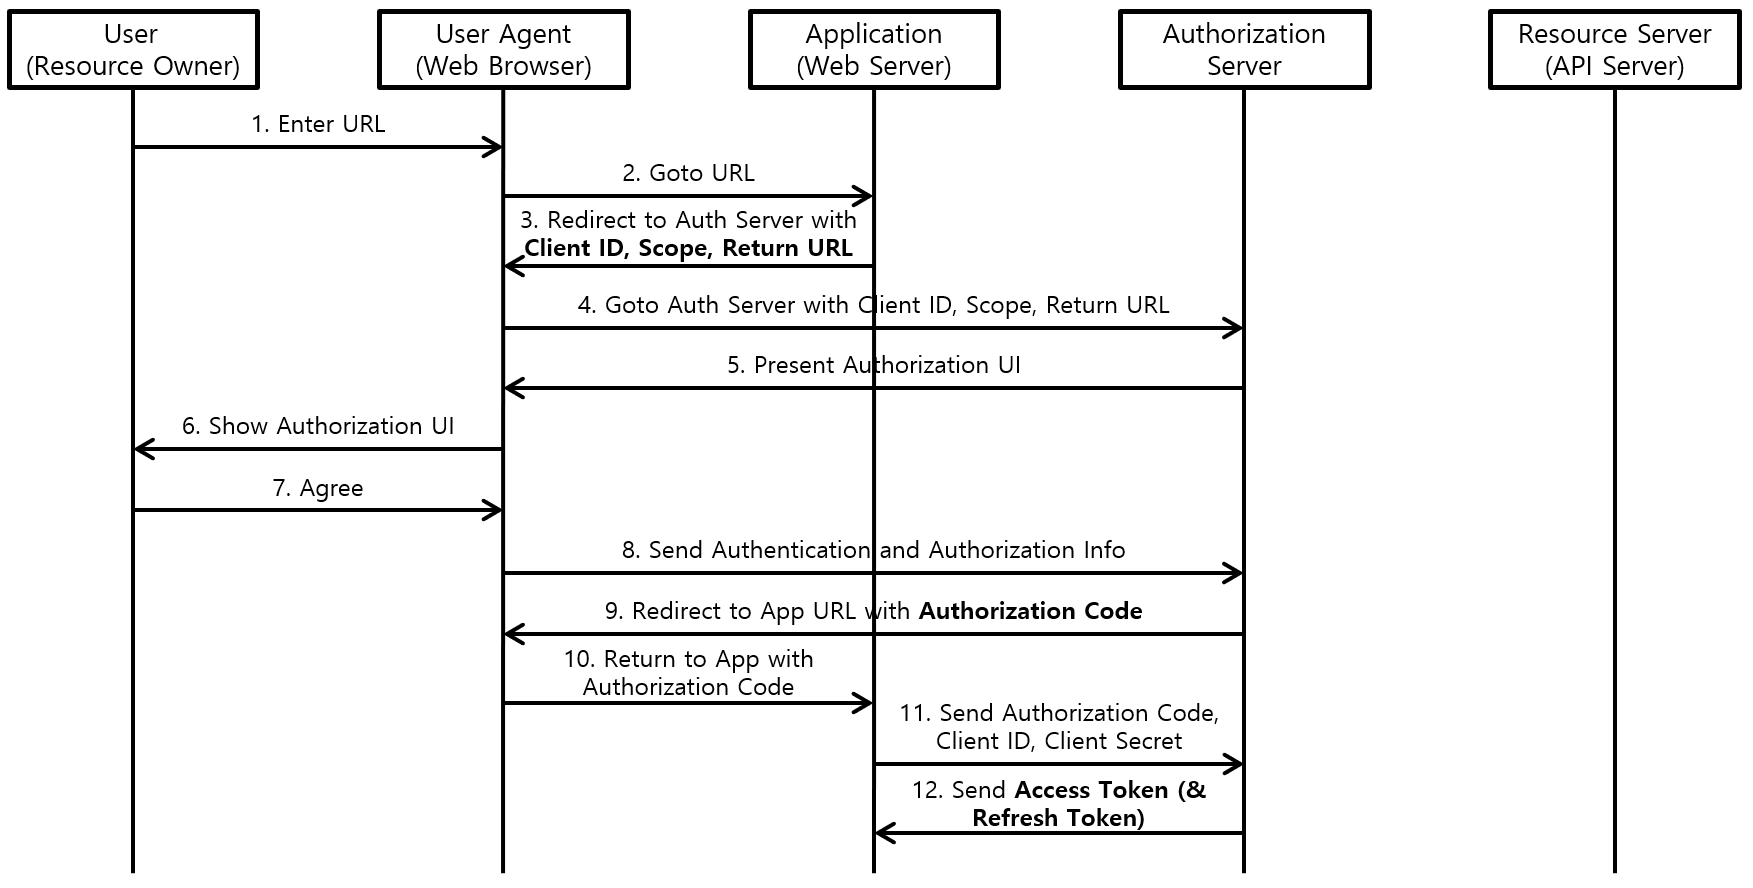
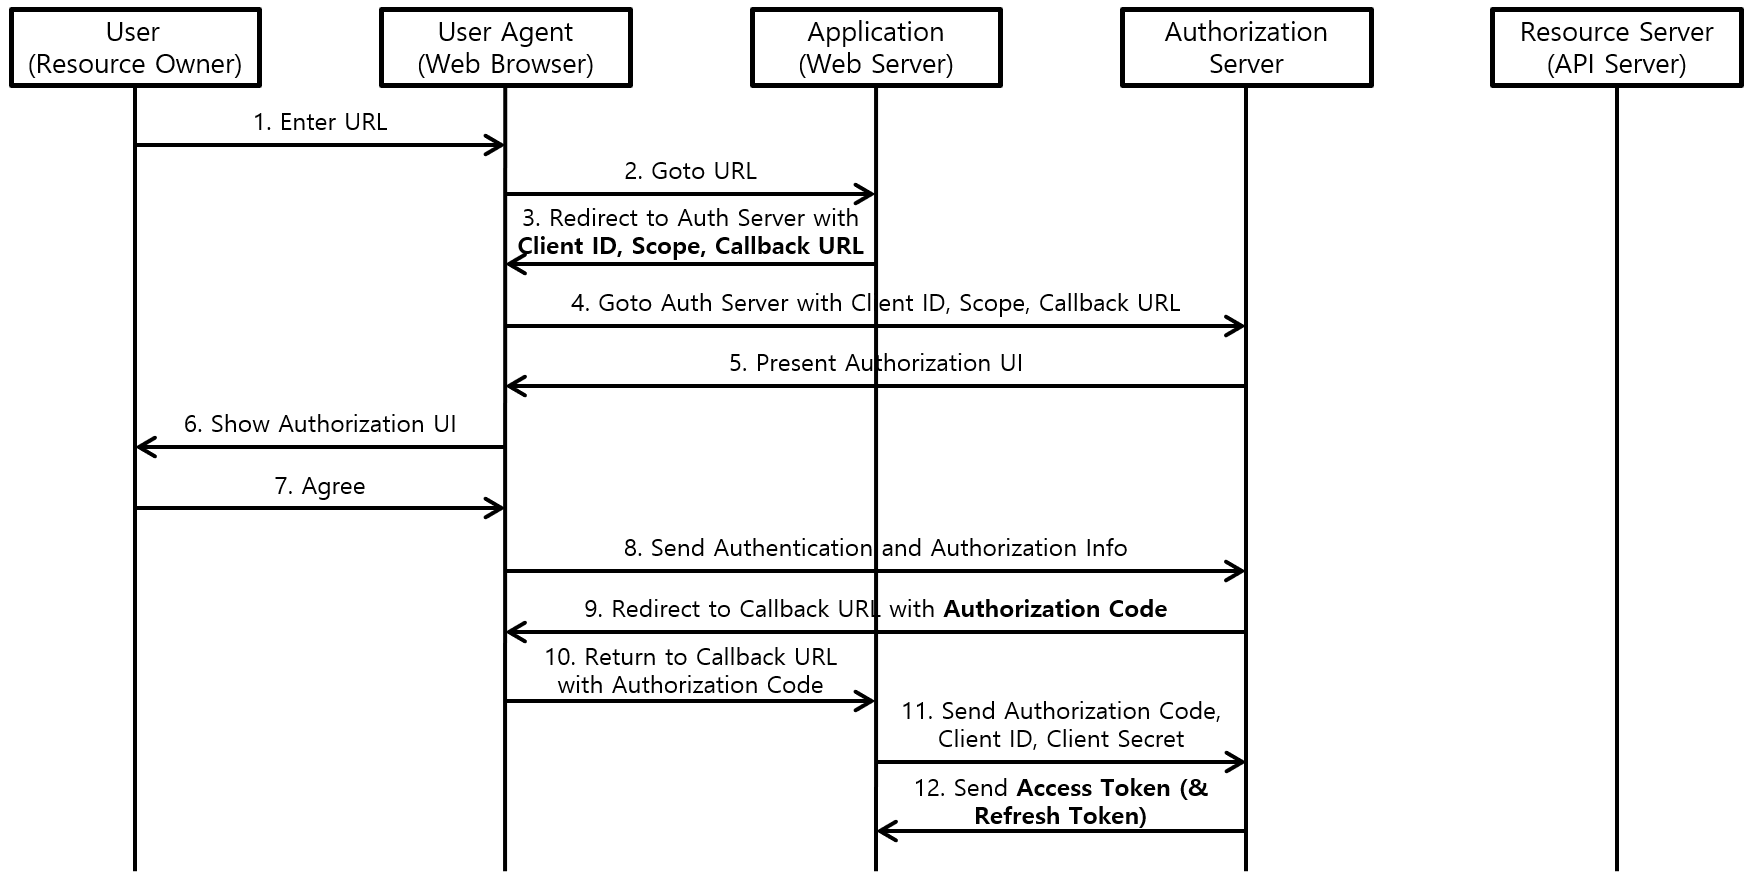
Update

diff --git a/_docs/programming/Golang_Google_OIDC_이용.md b/_docs/programming/Golang_Google_OIDC_이용.md
@@ -42,7 +42,7 @@ func main() {
 		ClientID:     clientID,
 		ClientSecret: clientSecret,
 		Endpoint:     oidcProvider.Endpoint(),
-		RedirectURL:  "http://127.0.0.1:3000/auth/google/callback",   // Set redirect url
+		RedirectURL:  "http://127.0.0.1:3000/auth/google/callback",   // Set callback URL
 		Scopes:       []string{oidc.ScopeOpenID, "profile", "email"}, // Set scope
 	}
 
@@ -156,16 +156,29 @@ func main() {
 * Line 26, 78 : Nonce는 ID Token이 유효한지 검증하는 용도로 이용되는 문자열이다. Nonce가 포함되도록 ID Token을 생성 및 Cookie에 저장하며, Redirect 이후에 얻은 ID Token의 Nonce와 Cookie의 Nonce가 일치하는지 확인한다.
 * Line 52 : Authorization Code는 URL의 "code" Query에 존재한다.
 
-### 3. ID Token, Access Token
+### 3. Google 인증/인가
+
+![[그림 3] Google 인증]({{site.baseurl}}/images/programming/Golang_Google_OIDC/Google_인증.PNG){: width="500px"}
 
 {% highlight text %}
-http://127.0.0.1:3000/auth/google/callback?state=HeLK6b0uTARRKUaX4fLqsw&code=4%2F0AX4XfWj1XzuCgumNoRlYBfzzeCSBzszRvXMlt1uYohiQDOYJ61NrFKIgDmuuOrM5m6JDKw&scope=email+profile+openid+https%3A%2F%2Fwww.googleapis.com%2Fauth%2Fuserinfo.profile+https%3A%2F%2Fwww.googleapis.com%2Fauth%2Fuserinfo.email&authuser=0&prompt=none
+https://accounts.google.com/o/oauth2/v2/auth/identifier?client_id=554362356429-cu4gcpn45gb3incmm2v32sofslliffg2.apps.googleusercontent.com&nonce=fpeNwK3Ky2GnFdIV3Jtltw&redirect_uri=http%3A%2F%2F127.0.0.1%3A3000%2Fauth%2Fgoogle%2Fcallback&response_type=code&scope=openid%20profile%20email&state=jw9XMDFhPTTBuKx-ugdNXg&flowName=GeneralOAuthFlow
 {% endhighlight %}
 <figure>
-<figcaption class="caption">[Text 1] Callback URL</figcaption>
+<figcaption class="caption">[Text 1] Google 인증 URL</figcaption>
 </figure>
 
-[Text 1]은 Redirect URL의 예제를 나타내고 있다. "code" Query에는 Authorization Code, "scope" Query에는 Scope 정보등이 포함되어 있는것을 확인할 수 있다.
+[그림 3]은 Golang App의 "/" Path에 접속하면 Redirect 되어 접속되는 Google 인증 화면이다. [Text 1]은 Google 인증화면 접속시 이용되는 URL을 나타낸다. URL에 Query 형태로 Client ID, Nonce, Callback URL (Redirect URL), Scope 정보가 포함되어 있는것을 확인할 수 있다.
+
+### 4. ID Token, Access Token
+
+{% highlight text %}
+http://127.0.0.1:3000/auth/google/callback?state=jw9XMDFhPTTBuKx-ugdNXg&code=4%2F0AX4XfWgTtbdukkh8T54TEyGYRQj5X8yeuF7EM6C6BPAJp8164psIkcb3PHjQfIsXPBBYTQ&scope=email+profile+openid+https%3A%2F%2Fwww.googleapis.com%2Fauth%2Fuserinfo.profile+https%3A%2F%2Fwww.googleapis.com%2Fauth%2Fuserinfo.email&authuser=0&prompt=consent
+{% endhighlight %}
+<figure>
+<figcaption class="caption">[Text 2] Callback URL</figcaption>
+</figure>
+
+[Text 2]은 Redirect URL의 예제를 나타내고 있다. "code" Query에는 Authorization Code, "scope" Query에는 Scope 정보등이 포함되어 있는것을 확인할 수 있다.
 
 {% highlight json %}
 {
@@ -197,7 +210,7 @@ http://127.0.0.1:3000/auth/google/callback?state=HeLK6b0uTARRKUaX4fLqsw&code=4%2
 <figcaption class="caption">[Text 2] Callback Result - Access Token, ID Token</figcaption>
 </figure>
 
-[Text 2]는 ID Token의 Claim과 Access Token의 예제를 나타내고 있다.
+[Text 3]는 ID Token의 Claim과 Access Token의 예제를 나타내고 있다.
 
 ### 4. 참조
 

diff --git a/_docs/theory_analysis/OAuth_2.0.md b/_docs/theory_analysis/OAuth_2.0.md
@@ -41,11 +41,11 @@ App이 Authorization Server로부터 Access Token을 발급 받기 위해서는 
 
 [그림 3]은 Access Token의 발급 과정을 나타내고 있다.
 
-* 1,2,3 : App 구동 중 특정 Resource 이용을 위해 User의 인가가 필요한 경우, App은 User Agent에게 Auth Server의 인가 URL로 Redirect 명령을 전달한다. Redirect 명령과 함께 Client ID, App에서 필요한 Scope 정보, 인가 완료 후 App으로 돌아오기 위한 App의 Return URL도 같이 보낸다. Client ID, Scope, Return URL 모두 인가 URL의 URL Query 형태로 전달된다.
-* 4,5,6 : Auth Server는 URL Query로 전달된 Client ID, Scope, Return URL 정보를 바탕으로 User 인증 및 Resource 인가를 위한 적절한 UI를 User Agent에게 전달한다.
+* 1,2,3 : App 구동 중 특정 Resource 이용을 위해 User의 인가가 필요한 경우, App은 User Agent에게 Auth Server의 인가 URL로 Redirect 명령을 전달한다. Redirect 명령과 함께 Client ID, App에서 필요한 Scope 정보, 인가 완료 후 App으로 돌아오기 위한 App의 Callback URL도 같이 보낸다. Client ID, Scope, Callback URL 모두 인가 URL의 URL Query 형태로 전달된다.
+* 4,5,6 : Auth Server는 URL Query로 전달된 Client ID, Scope, Callback URL 정보를 바탕으로 User 인증 및 Resource 인가를 위한 적절한 UI를 User Agent에게 전달한다.
 * 7 : User는 UI를 통해서 User 인증 및 Resource 인가 작업을 진행한다. User 인증은 User의 ID/Password를 입력하여 진행하고, Resource 인가 작업은 App에서 요청한 Scope 정보를 보여주는 방식으로 진행된다.
-* 8, 9 : User Agent는 인증, 인가 정보를 Auth Sever에게 전달하여 **Auth Code**와 App으로 돌아갈 App URL을 전달 받는다. Auth Code는 추후 Access/Refresh Token을 얻기 위한 임시 Token이다. Auth Code도 Return URL의 URL Query 형태로 전달된다.
-* 10,11,12 : User Agent는 App의 Return URL로 이동한다. App은 URL Query를 통해서 Auth Code를 얻은 다음, 얻은 Auth Code 그리고 Client ID, Client Secret을 통해 Resource에 접근 할 수 있는 Access Token과 Access Token을 새로 받을때 이용하는 Refresh Token을 발급 받는다.
+* 8, 9 : User Agent는 인증, 인가 정보를 Auth Sever에게 전달하여 **Auth Code**와 App으로 돌아갈 App URL을 전달 받는다. Auth Code는 추후 Access/Refresh Token을 얻기 위한 임시 Token이다. Auth Code도 Callback URL의 URL Query 형태로 전달된다.
+* 10,11,12 : User Agent는 App의 Callback URL로 이동한다. App은 URL Query를 통해서 Auth Code를 얻은 다음, 얻은 Auth Code 그리고 Client ID, Client Secret을 통해 Resource에 접근 할 수 있는 Access Token과 Access Token을 새로 받을때 이용하는 Refresh Token을 발급 받는다.
 
 ![[그림 4] Google OAuth 2.0 Authorization UI]({{site.baseurl}}/images/theory_analysis/OAuth_2.0/Auth_Google_UI.PNG){: width="600px"}
 
